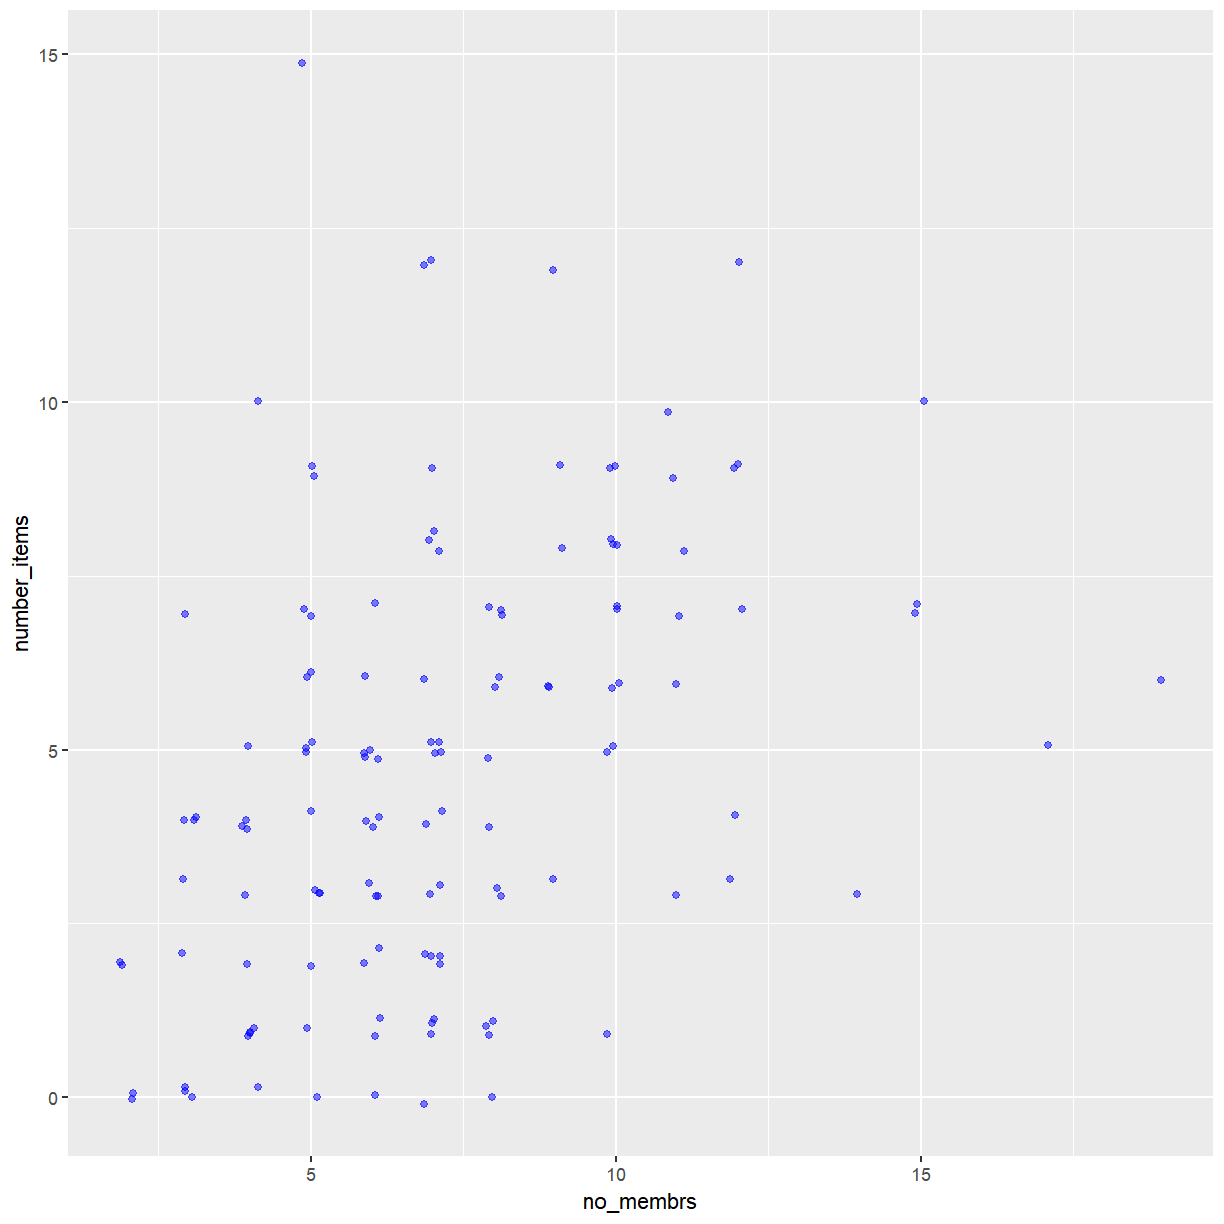
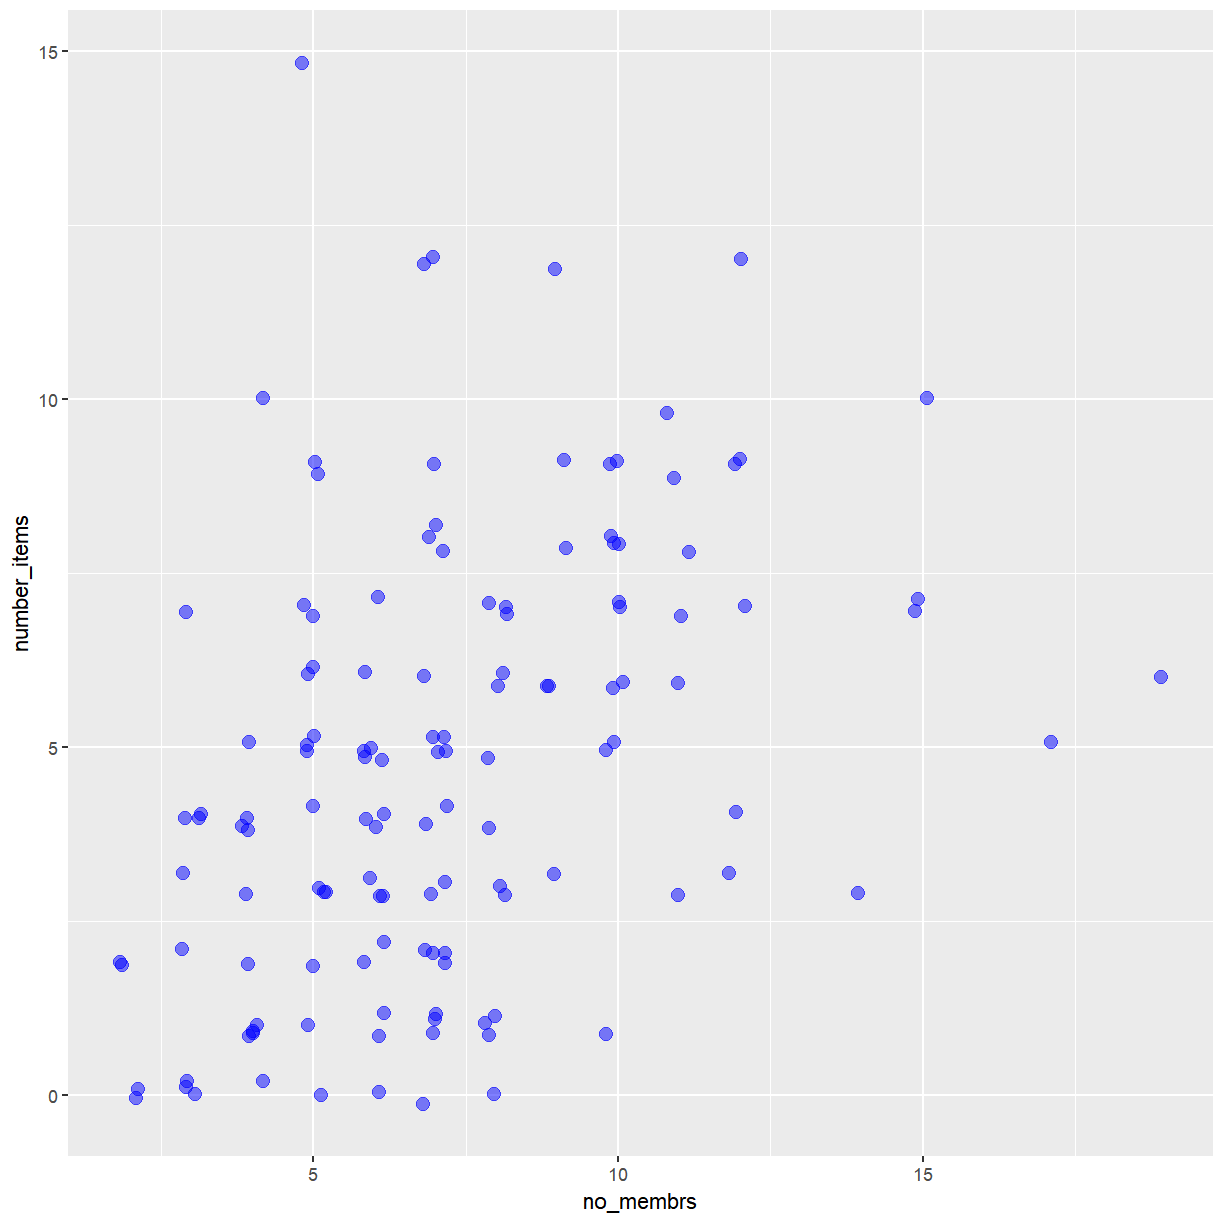
regression lines

diff --git a/_episodes/01-ggplot2.md b/_episodes/01-ggplot2.md
@@ -300,7 +300,7 @@ that can be distinguished visually.
 > > 
 > > ~~~
 > > ggplot(data = interviews_plotting, aes(x = no_membrs, y = number_items)) +
-> >     geom_jitter(alpha = 0.5, width = 0.25, height = 0.25, size = 4)
+> >     geom_jitter(alpha = 0.5, width = 0.2, height = 0.2, size = 4)
 > > ~~~
 > > {: .language-r}
 > > 
@@ -314,7 +314,7 @@ We can also add colors for all the points:
 
 ~~~
 ggplot(data = interviews_plotting, aes(x = no_membrs, y = number_items)) +
-geom_jitter(alpha = 0.5, width = 0.15, height = 0.15, color = "blue")
+geom_jitter(alpha = 0.5, width = 0.2, height = 0.2, size = 3, color = "blue")
 ~~~
 {: .language-r}
 
@@ -330,7 +330,7 @@ Here is an example where we color by **`village`**:
 
 ~~~
 ggplot(data = interviews_plotting, aes(x = no_membrs, y = number_items)) +
-    geom_jitter(aes(color = village), alpha = 0.5, width = 0.15, height = 0.15)
+    geom_jitter(aes(color = village), alpha = 0.5, width = 0.2, height = 0.2, size = 3)
 ~~~
 {: .language-r}
 
@@ -339,6 +339,44 @@ ggplot(data = interviews_plotting, aes(x = no_membrs, y = number_items)) +
 There appears to be a positive trend between number of household
 members and number of items owned (from the list provided). This trend
 does not appear to be different by village.
+
+You can highlight this aspect of the data by adding a regression line
+to the plot. The function `geom_smooth` allows you to add a a variety
+of different smoothing functions to the plot. You can choose the type
+of smoother to use by setting the `method` argument. Use `method='lm'`
+to get a regression line.
+
+
+~~~
+ggplot(data = interviews_plotting, aes(x = no_membrs, y = number_items)) +
+    geom_jitter(aes(color = village), alpha = 0.5, width = 0.2, height = 0.2, size = 3) +
+    geom_smooth(method='lm')
+~~~
+{: .language-r}
+
+<img src="../fig/rmd-01-regression-line-1.png" title="plot of chunk regression-line" alt="plot of chunk regression-line" width="612" style="display: block; margin: auto;" />
+
+> ## Exercise
+>
+> Add separate regression lines for each village.
+> 
+> **Hint:** Asking *ggplot* to map `village` to an aesthetic when drawing the regression
+> lines will produce one line per village.
+>
+> > ## Solution
+> >
+> > 
+> > ~~~
+> > ggplot(data = interviews_plotting, aes(x = no_membrs, y = number_items)) +
+> >     geom_jitter(aes(color = village), alpha = 0.5, width = 0.2, height = 0.2, size = 3) +
+> >     geom_smooth(aes(color = village), method='lm')
+> > ~~~
+> > {: .language-r}
+> > 
+> > <img src="../fig/rmd-01-village-regression-line-1.png" title="plot of chunk village-regression-line" alt="plot of chunk village-regression-line" width="612" style="display: block; margin: auto;" />
+> {: .solution}
+{: .challenge}
+
 
 > ## Exercise
 >
